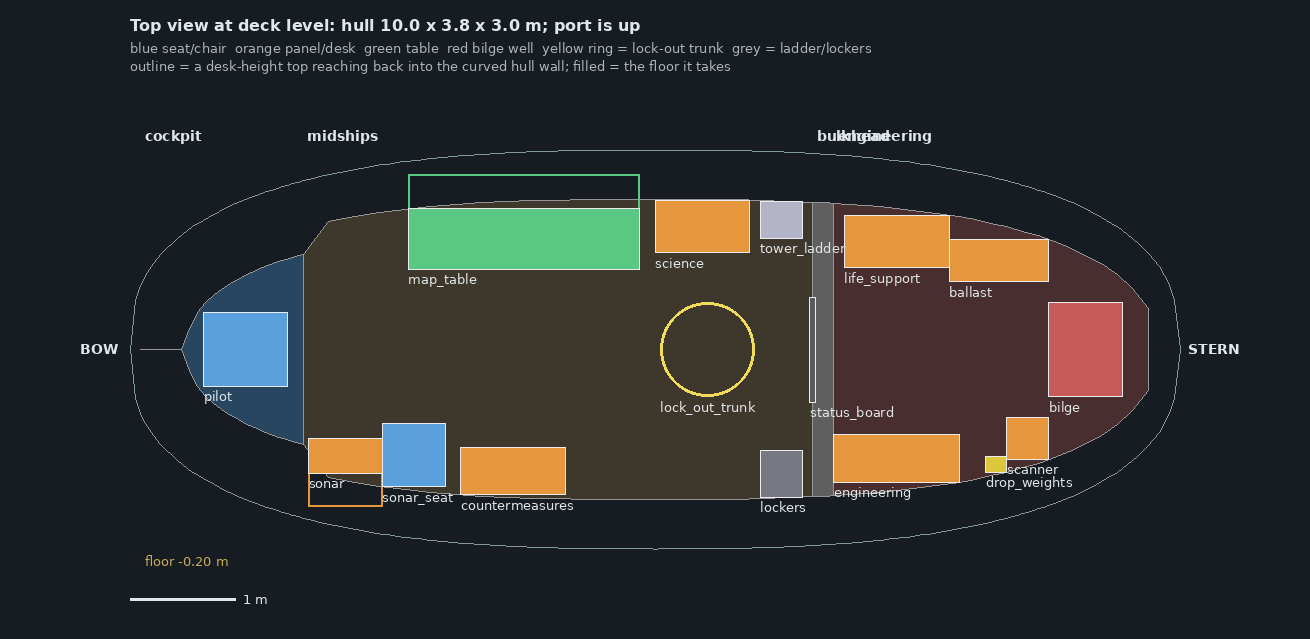
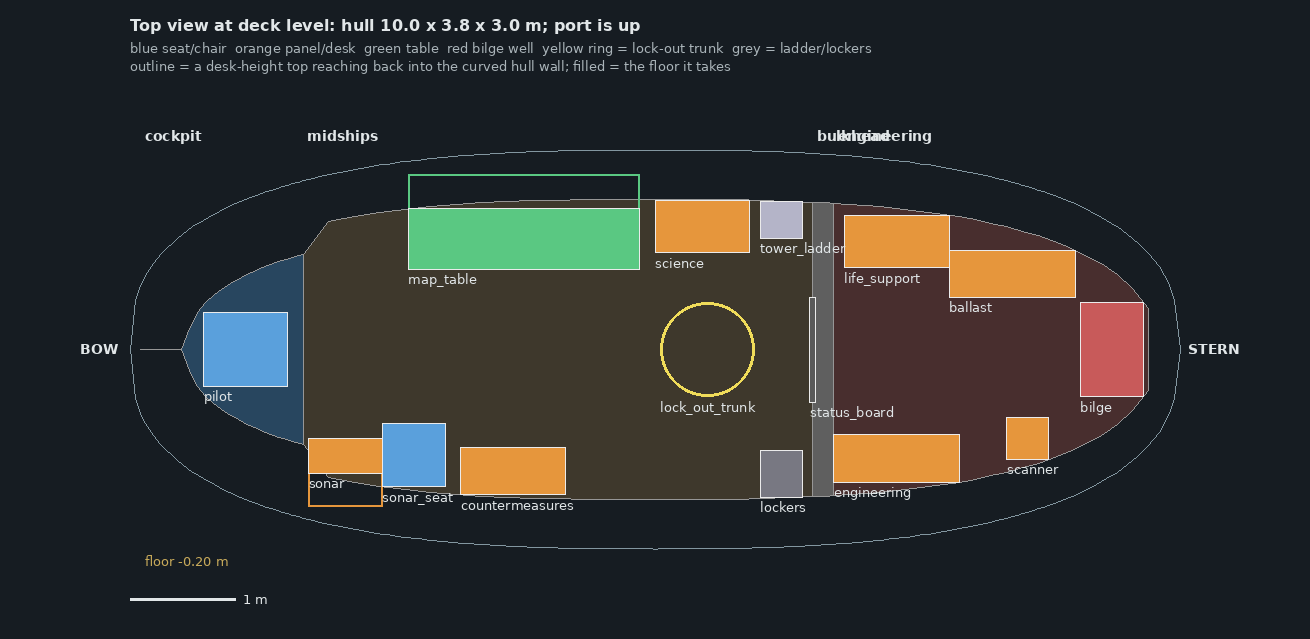
M12.75 · Place the engineering station in the sub
Places the generated engineering_station panel at the program's ballast position, retires the old Ballast panel, drop-weights placeholder and Bilge stub, and rebinds the pilot, sub controller, leak system and drop weights to it.

Refs #572

Changed region(s): [[0.7023, 0.3568, 0.855, 0.6541], [0.855, 0.4757, 0.8855, 0.6244], [0.7328, 0.7136, 0.8244, 0.7731]]

diff --git a/tools/compare_autotest.py b/tools/compare_autotest.py
@@ -32,8 +32,8 @@ def main() -> int:
             errors.append(f"{who} cabin lights lever still held by {r['lever_holder']}")
         if r["throttle"] < 0.9:
             errors.append(f"{who} throttle={r['throttle']} (Crew3 held W from the helm)")
-        if not near(r["flood"], 0.75, 0.1):
-            errors.append(f"{who} flood={r['flood']} (expected ~0.75)")
+        if not near(r["flood"], 0.5, 0.1):
+            errors.append(f"{who} flood={r['flood']} (expected ~0.5)")
         if r["rudder"] > -0.8:
             errors.append(f"{who} rudder={r['rudder']} (expected hard to port)")
         if r["engine"] <= 0.2:

diff --git a/docs/sub_frame.md b/docs/sub_frame.md
@@ -89,10 +89,10 @@ The sonar desk is the generated `sonar_console` station instanced at `Interior/S
 
 ## Ballast, engineering and bilge stations
 
-The ballast valves and gauges (`Stations/Ballast`, port, z 3.25), the engine gauge (`Stations/Engineering`, starboard, z 2.3) and the bilge pump switch and gauges (`Stations/Bilge`, beside the centre bilge well, z 4.1) are placed by `StationPlacement` from the program's `ballast`, `engineering` and `bilge` entries. `BilgeWater` takes its floor height from the bilge well (`SubLayout.position(&"bilge").y`). The aft-port leak is placed relative to the ballast panel, and the three fore leaks sit just inside the hull surface; `test_every_leak_is_inside_the_hull` guards all four.
+The engineering station panel (`Stations/Ballast/Panel`, port, z 3.4: the FLOOD and BLOW wheels, the tank, air and bilge gauges, the noise gauge, the guarded drop-weights button, the BILGE PUMP switch and the hand pump) and the electrical station panel (`Stations/Engineering/Panel`, starboard, z 2.3) are placed by `StationPlacement` from the program's `ballast` and `engineering` entries; a hose from the hand pump runs aft along the floor to the bilge well (`bilge`, centre, z 4.35, moved aft from 4.1 so the 1.2 m panel fits between life support and the well). `BilgeWater` takes its floor height from the bilge well (`SubLayout.position(&"bilge").y`). The aft-port leak is placed relative to the ballast panel, and the three fore leaks sit just inside the hull surface; `test_every_leak_is_inside_the_hull` guards all four.
 
 ## Scanner, status board and lights
 
-The scanner panel (starboard, aft of the drop weights) and the wall-mounted status board (forward face of the bulkhead, above the hatch) are program entries (`scanner`, `status_board`; a `mounted: true` item takes no floor). The interior's lights and fascia sit inside the hull; `tests/unit/test_station_clearance.gd` checks that nothing built overlaps a reserved footprint.
+The scanner panel (starboard, aft of the electrical panel) and the wall-mounted status board (forward face of the bulkhead, above the hatch) are program entries (`scanner`, `status_board`; a `mounted: true` item takes no floor). The interior's lights and fascia sit inside the hull; `tests/unit/test_station_clearance.gd` checks that nothing built overlaps a reserved footprint.
 
 The map table (`Interior/Stations/Maps/MapTable`, a `MapTable` over the generated `map_table` station) is placed by a `StationPlacement` (`Stations/MapTablePlacement`): its back sits on the hull end of the program's `top_box` for `map_table`, turned 90 degrees so the operator side faces the aisle, and the two work lamps (`Lights/WorkLamp*`, cabin lights the dimmer reaches) are offset from the same station. `tests/unit/test_map_table_placement.gd` checks the footprint against the bay and `aisle_min_m`.
